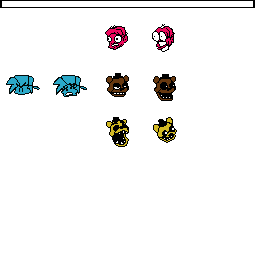
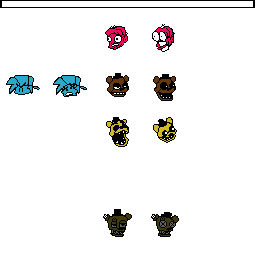
Trapped
finished another song
i really speedran today didnt i

Changed region(s): [[0.5938, 0.8125, 0.7188, 0.9375], [0.4062, 0.8125, 0.5312, 0.9375]]

diff --git a/src/stage/fnaf3.c b/src/stage/fnaf3.c
@@ -1,0 +1,78 @@
+/*
+  This Source Code Form is subject to the terms of the Mozilla Public
+  License, v. 2.0. If a copy of the MPL was not distributed with this
+  file, You can obtain one at http://mozilla.org/MPL/2.0/.
+*/
+
+#include "fnaf3.h"
+
+#include "../archive.h"
+#include "../mem.h"
+#include "../stage.h"
+#include "../random.h"
+#include "../timer.h"
+#include "../animation.h"
+
+//FNAF 3 background structure
+typedef struct
+{
+	//Stage background base structure
+	StageBack back;
+	
+	//Textures
+	Gfx_Tex tex_back0; //fnaf3bg
+
+} Back_FNAF3;
+
+
+void Back_FNAF3_DrawBG(StageBack *back)
+{
+	Back_FNAF3 *this = (Back_FNAF3*)back;
+	
+	fixed_t fx, fy;
+
+	//Draw fnaf3bg
+	fx = stage.camera.x;
+	fy = stage.camera.y;
+	
+	RECT fnaf3bg_src = {0, 0, 255, 255};
+	RECT_FIXED fnaf3bg_dst = {
+		FIXED_DEC(-235 - screen.SCREEN_WIDEOADD2,1) - fx,
+		FIXED_DEC(-205,1) - fy,
+		FIXED_DEC(640 + screen.SCREEN_WIDEOADD,1),
+		FIXED_DEC(300,1)
+	};
+
+	Debug_StageMoveDebug(&fnaf3bg_dst, 8, fx, fy);
+	Stage_DrawTex(&this->tex_back0, &fnaf3bg_src, &fnaf3bg_dst, stage.camera.bzoom);
+}
+
+void Back_FNAF3_Free(StageBack *back)
+{
+	Back_FNAF3 *this = (Back_FNAF3*)back;
+	
+
+	//Free structure
+	Mem_Free(this);
+}
+
+StageBack *Back_FNAF3_New(void)
+{
+	//Allocate background structure
+	Back_FNAF3 *this = (Back_FNAF3*)Mem_Alloc(sizeof(Back_FNAF3));
+	if (this == NULL)
+		return NULL;
+	
+	//Set background functions
+	this->back.draw_fg = NULL;
+	this->back.draw_md = NULL;
+	this->back.draw_bg = Back_FNAF3_DrawBG;
+	this->back.free = Back_FNAF3_Free;
+	
+	//Load background textures
+	IO_Data arc_back = IO_Read("\\FNAF3\\BACK.ARC;1");
+	Gfx_LoadTex(&this->tex_back0, Archive_Find(arc_back, "back0.tim"), 0);
+	Mem_Free(arc_back);
+	
+	return (StageBack*)this;
+}

diff --git a/src/character/salvage.c b/src/character/salvage.c
@@ -146,13 +146,13 @@ Character *Char_Salvage_New(fixed_t x, fixed_t y)
 	//Set character information
 	this->character.spec = 0;
 	
-	this->character.health_i = 9;
+	this->character.health_i = 10;
 
 	//health bar color
-	this->character.health_bar = 0xFFFFCB05;
+	this->character.health_bar = 0xFF413A0F;
 	
-	this->character.focus_x = FIXED_DEC(92,1);
-	this->character.focus_y = FIXED_DEC(-86,1);
+	this->character.focus_x = FIXED_DEC(118,1);
+	this->character.focus_y = FIXED_DEC(-82,1);
 	this->character.focus_zoom = FIXED_DEC(1,1);
 	
 	//Load art

diff --git a/src/stagedef_disc1.h b/src/stagedef_disc1.h
@@ -191,18 +191,18 @@
 	},
 	{ //StageId_3_3 (Trapped)
 		//Characters
-		{Char_BF_New,    FIXED_DEC(60,1),  FIXED_DEC(100,1)},
+		{Char_BF_New,    FIXED_DEC(137,1),  FIXED_DEC(64,1)},
 		{NULL},
 		{NULL},
 		{NULL},
 		{NULL},
-		{Char_Salvage_New, FIXED_DEC(-120,1),  FIXED_DEC(100,1)},
+		{Char_Salvage_New, FIXED_DEC(-106,1),  FIXED_DEC(27,1)},
 		{NULL},
         {NULL},
 		{NULL},
 		
 		//Stage background
-		Back_Dummy_New,
+		Back_FNAF3_New,
 		
 		//Song info
 		3, 3,

diff --git a/src/character/bf.c b/src/character/bf.c
@@ -485,9 +485,9 @@ Character *Char_BF_New(fixed_t x, fixed_t y)
 	}
 	if (stage.stage_id == StageId_3_3)
 	{	
-		this->character.focus_x = FIXED_DEC(-50,1);
-		this->character.focus_y = FIXED_DEC(-65,1);
-		this->character.focus_zoom = FIXED_DEC(1,1);
+		this->character.focus_x = FIXED_DEC(-62,1);
+		this->character.focus_y = FIXED_DEC(-112,1);
+		this->character.focus_zoom = FIXED_DEC(1014,1024);
 	}
 	if (stage.stage_id == StageId_4_4)
 	{	

diff --git a/src/stage/fnaf3.h b/src/stage/fnaf3.h
@@ -1,0 +1,15 @@
+/*
+  This Source Code Form is subject to the terms of the Mozilla Public
+  License, v. 2.0. If a copy of the MPL was not distributed with this
+  file, You can obtain one at http://mozilla.org/MPL/2.0/.
+*/
+
+#ifndef PSXF_GUARD_FNAF3_H
+#define PSXF_GUARD_FNAF3_H
+
+#include "../stage.h"
+
+//FNAF 3 functions
+StageBack *Back_FNAF3_New();
+
+#endif

diff --git a/src/stage.c b/src/stage.c
@@ -82,6 +82,7 @@ static u32 Sounds[7];
 #include "stage/black.h"
 #include "stage/officeg.h"
 #include "stage/officeb.h"
+#include "stage/fnaf3.h"
 #include "stage/week5.h"
 #include "stage/week6.h"
 
